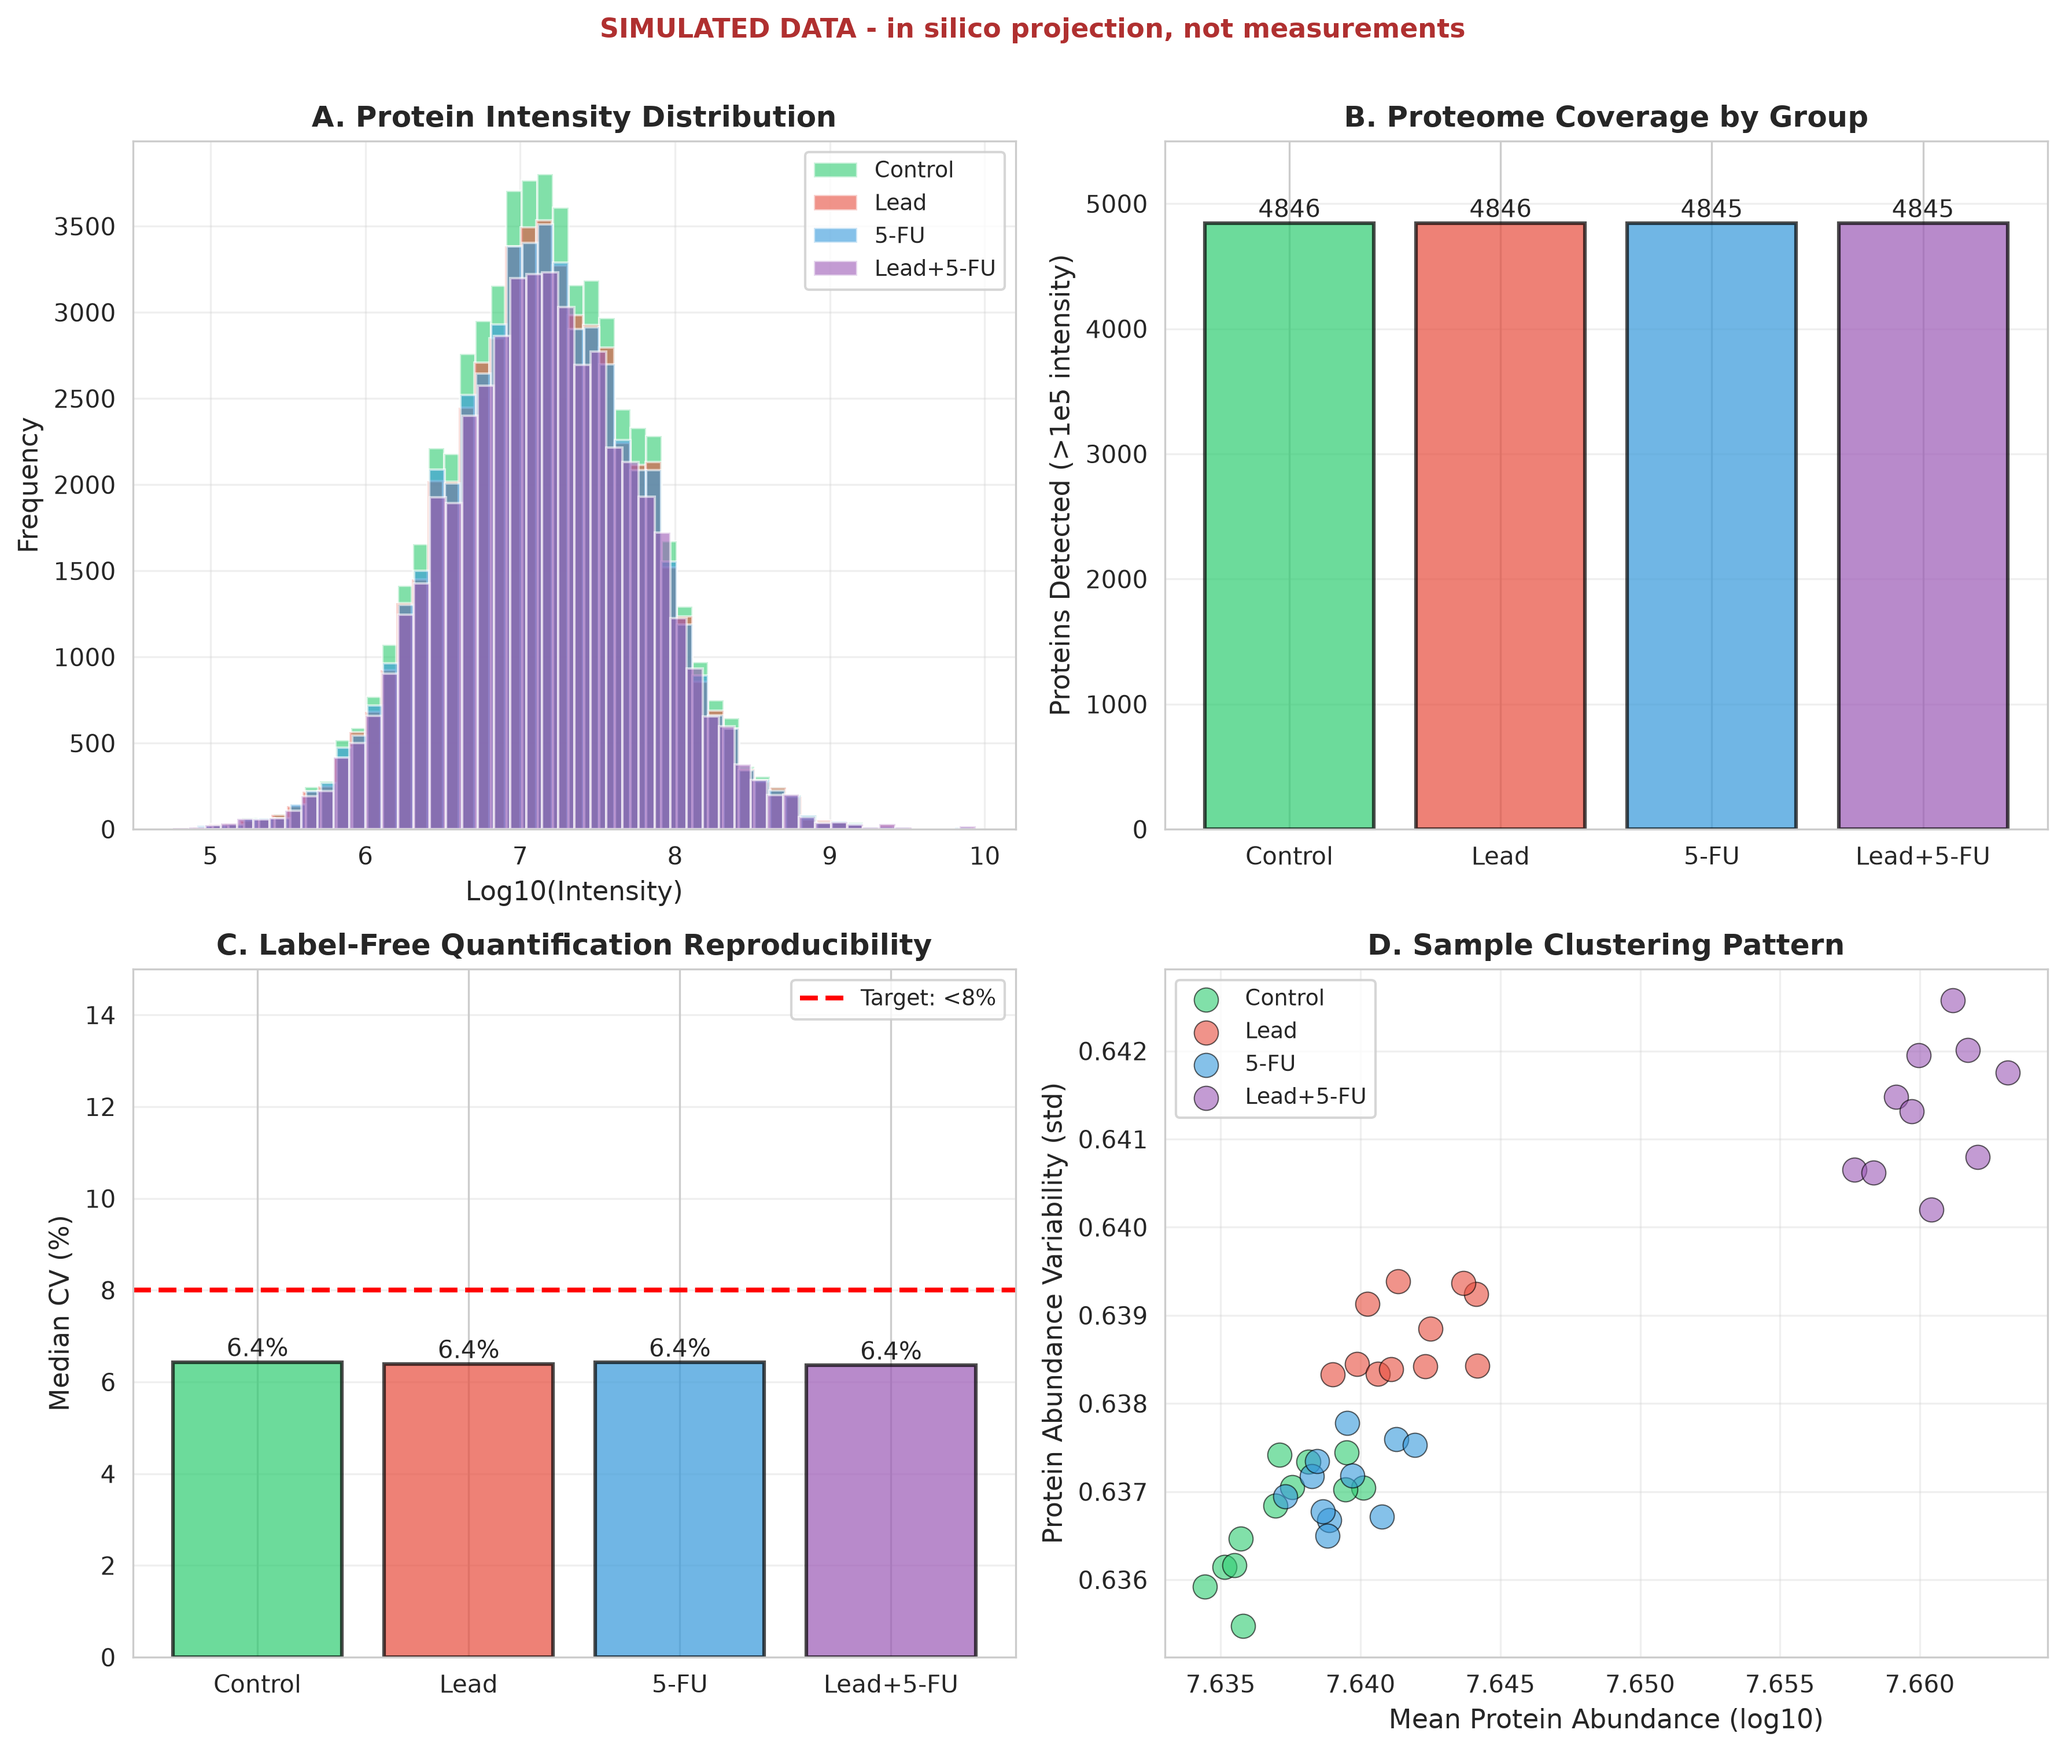
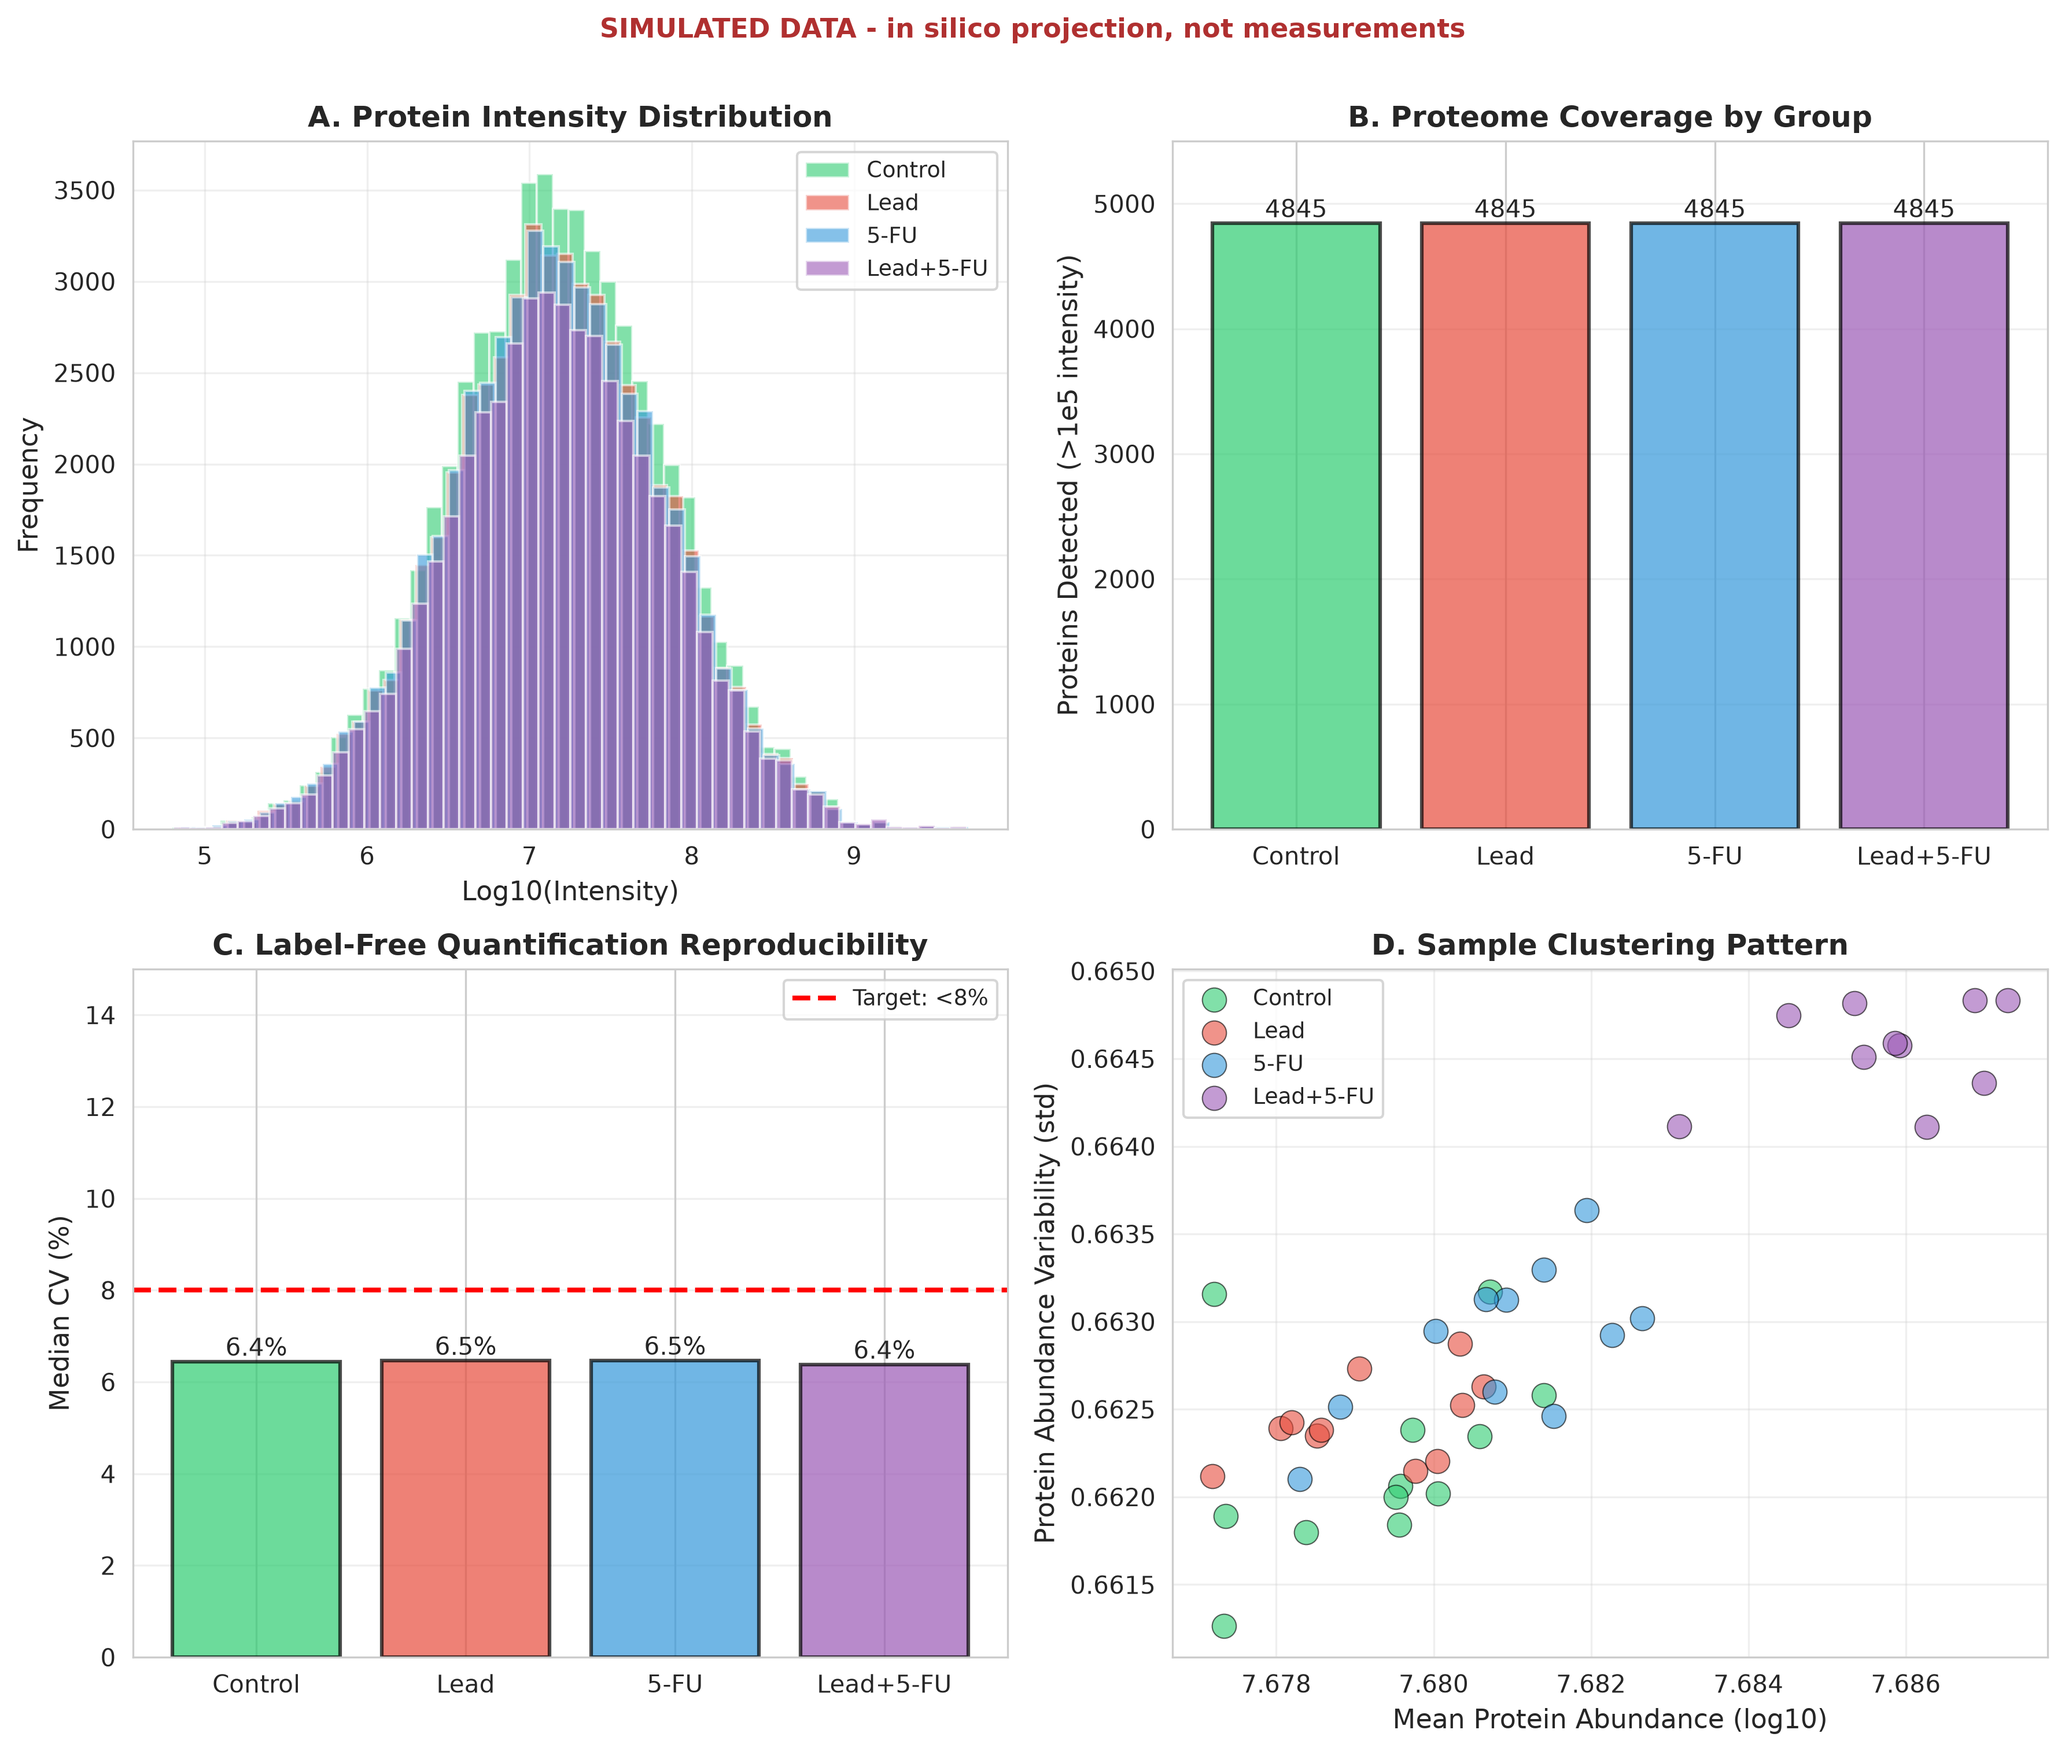
Seed the Table S7 simulator and stop tracking its regenerable outputs
The script was described as a reproducible pipeline but drew unseeded random
numbers, so every run produced different figures and CSVs while Table S7 quoted
one fixed set. Fix the seed (verified: identical output hash across runs) and
gitignore the two CSVs, which are derived artifacts rather than source.

diff --git a/scripts/serum_proteomics_analysis.py b/scripts/serum_proteomics_analysis.py
@@ -32,6 +32,11 @@ import warnings
 
 warnings.filterwarnings('ignore')
 
+# Fixed seed: the projection must reproduce exactly, or the figures and the
+# numbers quoted in Table S7 drift apart between runs.
+RANDOM_SEED = 20260821
+np.random.seed(RANDOM_SEED)
+
 # Set style for publication-quality figures
 sns.set_style("whitegrid")
 sns.set_palette("husl")
@@ -125,6 +130,7 @@ class ProteomicsDataGenerator:
 
     def generate_full_dataset(self):
         """Generate complete proteomics dataset for all groups"""
+        np.random.seed(RANDOM_SEED)
         baseline = self.generate_baseline_intensities()
         control, lead, ffu, combined = self.generate_group_data(baseline)
 
